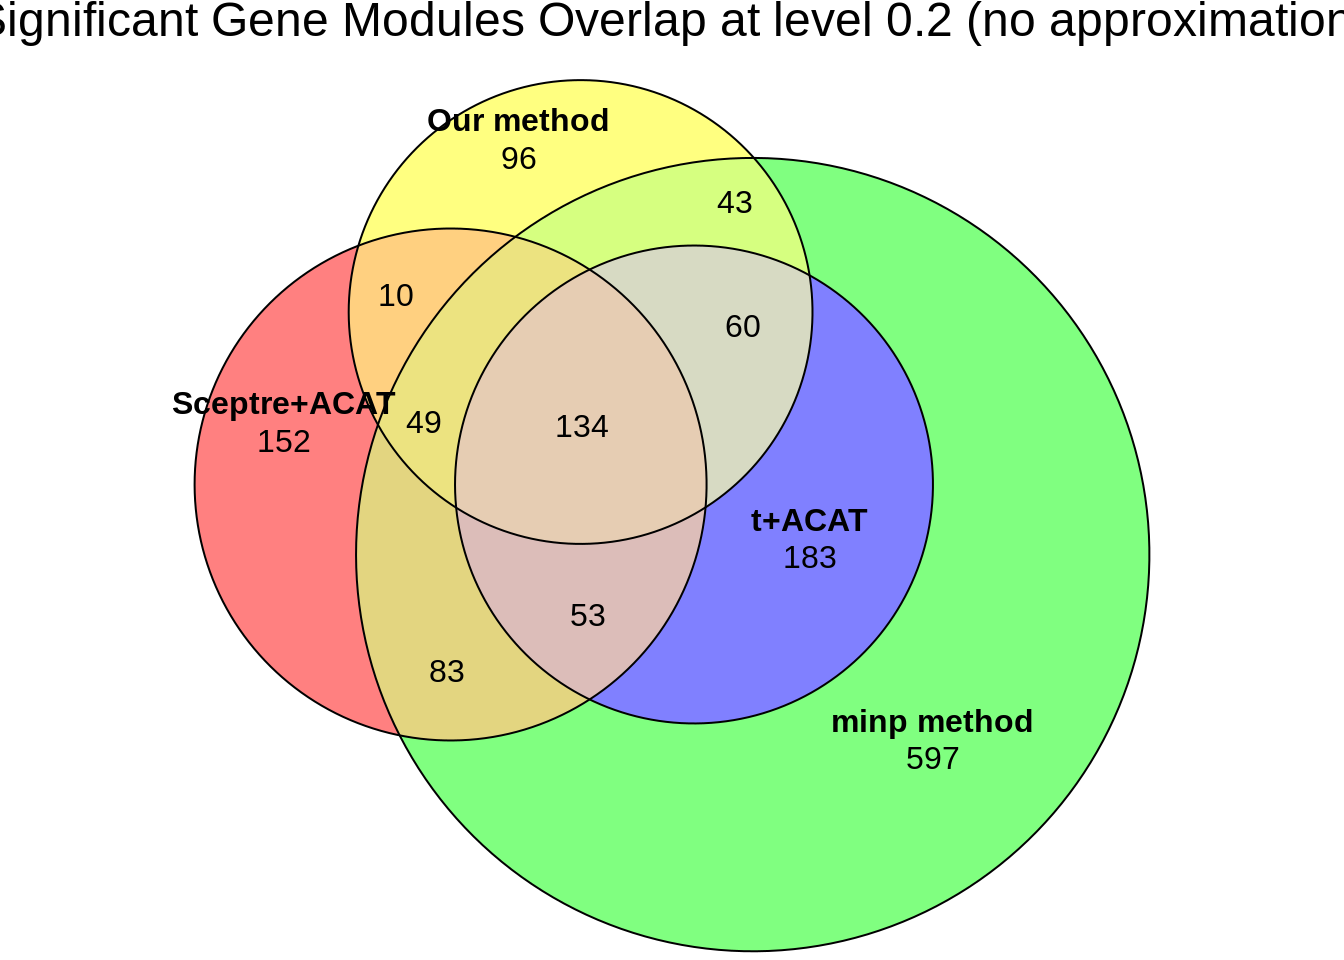
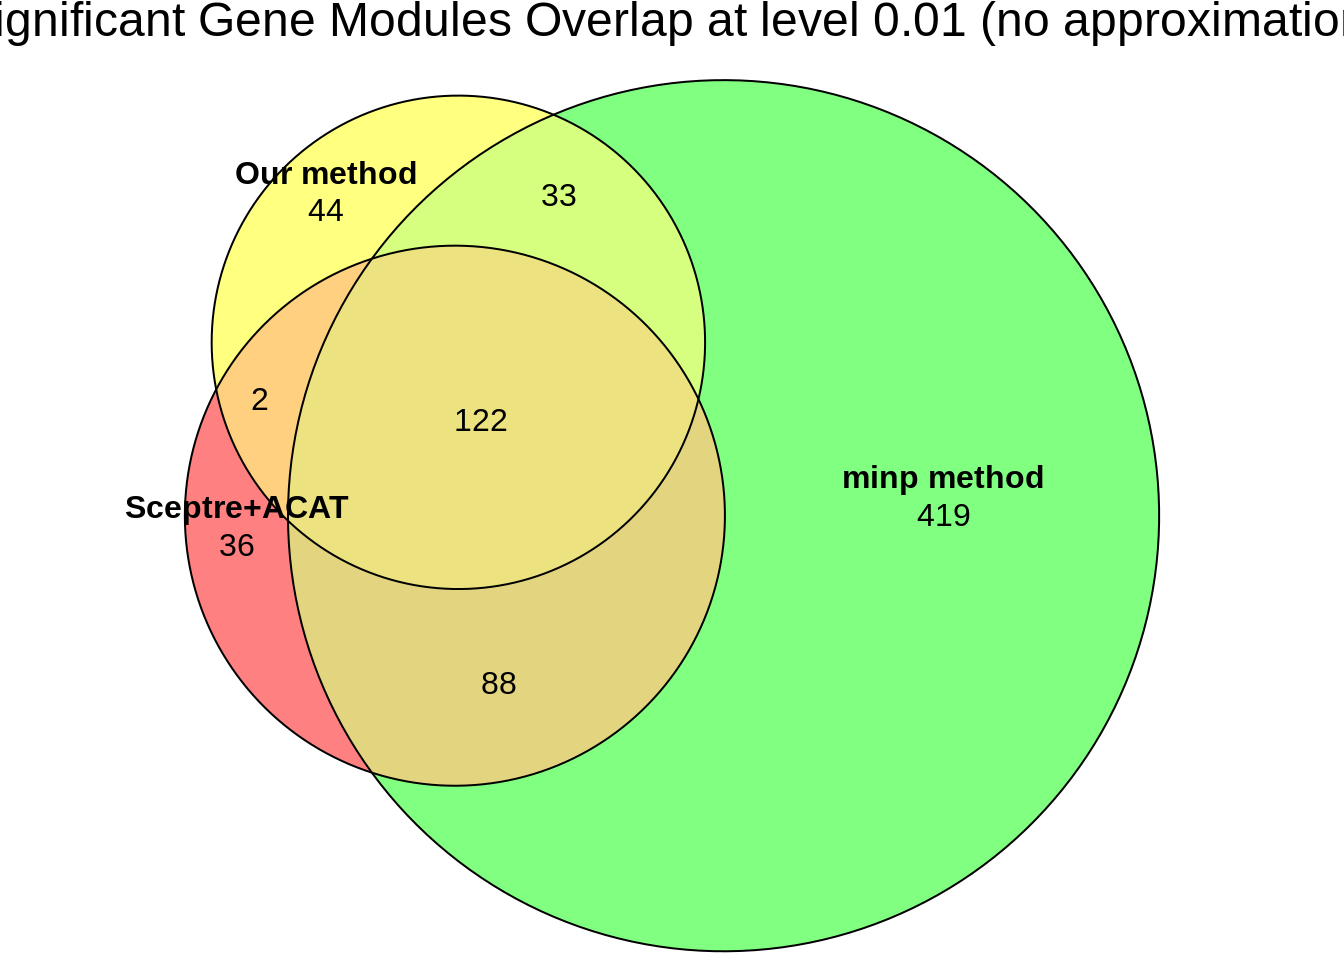
Build site.

diff --git a/docs/debug.html b/docs/debug.html
@@ -580,16 +580,16 @@ output/both_trans_author_threshold_0.05_2/results_run_calibration_check.rds
 <div class="panel panel-default">
 <div class="panel-heading">
 <p class="panel-title">
-<a data-toggle="collapse" data-parent="#workflowr-checks" href="#strongRepositoryversionstrongahrefhttpsgithubcomjliucxsceptretree7fe73c2e3ff9a6e6d8e1a681d3e568da5af7c930targetblank7fe73c2a"> <span class="glyphicon glyphicon-ok text-success" aria-hidden="true"></span> <strong>Repository version:</strong> <a href="https://github.com/jliucx/sceptre/tree/7fe73c2e3ff9a6e6d8e1a681d3e568da5af7c930" target="_blank">7fe73c2</a> </a>
+<a data-toggle="collapse" data-parent="#workflowr-checks" href="#strongRepositoryversionstrongahrefhttpsgithubcomjliucxsceptretree2b98c6c4cd346db6b8f6195f7fd3e850c4245c7etargetblank2b98c6ca"> <span class="glyphicon glyphicon-ok text-success" aria-hidden="true"></span> <strong>Repository version:</strong> <a href="https://github.com/jliucx/sceptre/tree/2b98c6c4cd346db6b8f6195f7fd3e850c4245c7e" target="_blank">2b98c6c</a> </a>
 </p>
 </div>
[2 lines of base64/hex data omitted]
 <div class="panel-body">
 <p>
 Great! You are using Git for version control. Tracking code development and connecting the code version to the results is critical for reproducibility.
 </p>
 <p>
-The results in this page were generated with repository version <a href="https://github.com/jliucx/sceptre/tree/7fe73c2e3ff9a6e6d8e1a681d3e568da5af7c930" target="_blank">7fe73c2</a>. See the <em>Past versions</em> tab to see a history of the changes made to the R Markdown and HTML files.
+The results in this page were generated with repository version <a href="https://github.com/jliucx/sceptre/tree/2b98c6c4cd346db6b8f6195f7fd3e850c4245c7e" target="_blank">2b98c6c</a>. See the <em>Past versions</em> tab to see a history of the changes made to the R Markdown and HTML files.
 </p>
 <p>
 Note that you need to be careful to ensure that all relevant files for the analysis have been committed to Git prior to generating the results (you can use <code>wflow_publish</code> or <code>wflow_git_commit</code>). workflowr only checks the R Markdown file, but you know if there are other scripts or data files that it depends on. Below is the status of the Git repository when the results were generated:
@@ -697,6 +697,40 @@ Message
 </tr>
 </thead>
 <tbody>
+<tr>
+<td>
+Rmd
+</td>
+<td>
+<a href="https://github.com/jliucx/sceptre/blob/2b98c6c4cd346db6b8f6195f7fd3e850c4245c7e/analysis/debug.Rmd" target="_blank">2b98c6c</a>
+</td>
+<td>
+jliucx
+</td>
+<td>
+2024-12-06
+</td>
+<td>
+add more comparison
+</td>
+</tr>
+<tr>
+<td>
+html
+</td>
+<td>
+<a href="https://rawcdn.githack.com/jliucx/sceptre/409b5c37058b52050f8fe9b714881454be19a54f/docs/debug.html" target="_blank">409b5c3</a>
+</td>
+<td>
+jliucx
+</td>
+<td>
+2024-12-06
+</td>
+<td>
+Build site.
+</td>
+</tr>
 <tr>
 <td>
 Rmd
@@ -3153,46 +3187,51 @@ jliucx
 </div>
 <div id="comparison-of-discoveries-of-four-methods" class="section level1">
 <h1>Comparison of discoveries of four methods</h1>
-<pre class="r"><code>significant_level &lt;- 0.2
+<pre class="r"><code>library(eulerr)
+
+# Define significant levels
+significant_levels &lt;- c(0.01, 0.05, 0.1, 0.2, 0.25)
 
 
-significant_ids_gene_wise_p &lt;- module_results_sceptre$identifier[module_results_sceptre$bh_pval &lt; significant_level]
-significant_ids_gene_wise_p_t &lt;- module_results_t$identifier[module_results_t$bh_pval &lt; significant_level]
-
-
-
-significant_pairs &lt;- minp_long %&gt;%
-  filter(bh_pval &lt; significant_level)
-
-significant_pairs &lt;- significant_pairs %&gt;%
-  mutate(identifier = paste(grna_id, module, sep = &quot;_&quot;))
-
-significant_identifiers_minp&lt;- significant_pairs$identifier
-
-significant_pairs_ours &lt;- our_method_long %&gt;%
-  filter(bh_pval &lt; significant_level)
-
-significant_pairs_ours &lt;- significant_pairs_ours %&gt;%
-  mutate(identifier = paste(grna_id, module, sep = &quot;_&quot;))
-
-significant_identifiers_ours &lt;- significant_pairs_ours$identifier
-
-library(eulerr)
-
-# Prepare the sets
-venn_data &lt;- list(
-  `Sceptre+ACAT` = significant_ids_gene_wise_p,
-  `t+ACAT` = significant_ids_gene_wise_p_t,
-  `minp method` = significant_identifiers_minp,
-  `Our method` = significant_identifiers_ours
-)
-
-# Generate the Euler diagram
-plot(euler(venn_data),
-     fills = list(fill = c(&quot;red&quot;, &quot;blue&quot;, &quot;green&quot;,&quot;yellow&quot;), alpha = 0.5),
-     edges = TRUE,
-     quantities = TRUE, # Add set sizes
-     main  = paste(&quot;Significant Gene Modules Overlap at level&quot;, significant_level, &quot;(no approximation)&quot;) )</code></pre>
+# Loop through significant levels and display plots
+for (significant_level in significant_levels) {
+  # Filter significant IDs for each method
+  significant_ids_gene_wise_p &lt;- module_results_sceptre$identifier[
+    module_results_sceptre$bh_pval &lt; significant_level]
+  significant_ids_gene_wise_p_t &lt;- module_results_t$identifier[
+    module_results_t$bh_pval &lt; significant_level]
+  
+  significant_pairs &lt;- minp_long %&gt;%
+    filter(bh_pval &lt; significant_level) %&gt;%
+    mutate(identifier = paste(grna_id, module, sep = &quot;_&quot;))
+  significant_identifiers_minp &lt;- significant_pairs$identifier
+  
+  significant_pairs_ours &lt;- our_method_long %&gt;%
+    filter(bh_pval &lt; significant_level) %&gt;%
+    mutate(identifier = paste(grna_id, module, sep = &quot;_&quot;))
+  significant_identifiers_ours &lt;- significant_pairs_ours$identifier
+  
+  # Prepare the sets
+  venn_data &lt;- list(
+    `Sceptre+ACAT` = significant_ids_gene_wise_p,
+    `t+ACAT` = significant_ids_gene_wise_p_t,
+    `minp method` = significant_identifiers_minp,
+    `Our method` = significant_identifiers_ours
+  )
+  
+  # Generate the Euler diagram and display it
+  euler_plot &lt;- plot(euler(venn_data),
+                     fills = list(fill = c(&quot;red&quot;, &quot;blue&quot;, &quot;green&quot;, &quot;yellow&quot;), alpha = 0.5),
+                     edges = TRUE, quantities = TRUE,
+                     main = paste(&quot;Significant Gene Modules Overlap at level&quot;, significant_level, &quot;(no approximation)&quot;)
+  )
+  
+  print(euler_plot)  # Display the plot in the R plotting window
+}</code></pre>
+<pre><code>Warning in colSums(id &amp; !empty) == 0 | merged_sets: longer object length is not
+a multiple of shorter object length
+Warning in colSums(id &amp; !empty) == 0 | merged_sets: longer object length is not
+a multiple of shorter object length</code></pre>
 <p><img src="figure/debug.Rmd/unnamed-chunk-34-1.png" width="672" style="display: block; margin: auto;" /></p>
 <p>
 <button type="button" class="btn btn-default btn-xs btn-workflowr btn-workflowr-fig" data-toggle="collapse" data-target="#fig-unnamed-chunk-34-1">
@@ -3231,9 +3270,9 @@ jliucx
 </table>
 </div>
 </div>
-</div>
-<div id="calibration-check" class="section level1">
-<h1>Calibration check</h1>
+<pre><code>Warning in colSums(id &amp; !empty) == 0 | merged_sets: longer object length is not
+a multiple of shorter object length</code></pre>
+<p><img src="figure/debug.Rmd/unnamed-chunk-34-2.png" width="672" style="display: block; margin: auto;" /><img src="figure/debug.Rmd/unnamed-chunk-34-3.png" width="672" style="display: block; margin: auto;" /><img src="figure/debug.Rmd/unnamed-chunk-34-4.png" width="672" style="display: block; margin: auto;" /><img src="figure/debug.Rmd/unnamed-chunk-34-5.png" width="672" style="display: block; margin: auto;" /> # Calibration check</p>
 <pre class="r"><code>gg_qqplot &lt;- function(ps, ci = 0.95, title = &quot;QQ Plot&quot;) {
   n &lt;- length(ps)
   df &lt;- data.frame(
@@ -3271,12 +3310,160 @@ ntc_sceptre &lt;- module_results_sceptre %&gt;%
   select(grna_id, acat_pval)</code></pre>
 <pre class="r"><code>gg_qqplot(as.vector(ntc_our$p_value), title=&quot;Negative control our method&quot;)</code></pre>
 <p><img src="figure/debug.Rmd/unnamed-chunk-36-1.png" width="672" style="display: block; margin: auto;" /></p>
+<p>
+<button type="button" class="btn btn-default btn-xs btn-workflowr btn-workflowr-fig" data-toggle="collapse" data-target="#fig-unnamed-chunk-36-1">
+Past versions of unnamed-chunk-36-1.png
+</button>
+</p>
+<div id="fig-unnamed-chunk-36-1" class="collapse">
+<div class="table-responsive">
+<table class="table table-condensed table-hover">
+<thead>
+<tr>
+<th>
+Version
+</th>
+<th>
+Author
+</th>
+<th>
+Date
+</th>
+</tr>
+</thead>
+<tbody>
+<tr>
+<td>
+<a href="https://github.com/jliucx/sceptre/blob/409b5c37058b52050f8fe9b714881454be19a54f/docs/figure/debug.Rmd/unnamed-chunk-36-1.png" target="_blank">409b5c3</a>
+</td>
+<td>
+jliucx
+</td>
+<td>
+2024-12-06
+</td>
+</tr>
+</tbody>
+</table>
+</div>
+</div>
 <pre class="r"><code>gg_qqplot(as.vector(ntc_minp$p_value), title=&quot;Negative control minp&quot;)</code></pre>
 <p><img src="figure/debug.Rmd/unnamed-chunk-36-2.png" width="672" style="display: block; margin: auto;" /></p>
+<p>
+<button type="button" class="btn btn-default btn-xs btn-workflowr btn-workflowr-fig" data-toggle="collapse" data-target="#fig-unnamed-chunk-36-2">
+Past versions of unnamed-chunk-36-2.png
+</button>
+</p>
+<div id="fig-unnamed-chunk-36-2" class="collapse">
+<div class="table-responsive">
+<table class="table table-condensed table-hover">
+<thead>
+<tr>
+<th>
+Version
+</th>
+<th>
+Author
+</th>
+<th>
+Date
+</th>
+</tr>
+</thead>
+<tbody>
+<tr>
+<td>
+<a href="https://github.com/jliucx/sceptre/blob/409b5c37058b52050f8fe9b714881454be19a54f/docs/figure/debug.Rmd/unnamed-chunk-36-2.png" target="_blank">409b5c3</a>
+</td>
+<td>
+jliucx
+</td>
+<td>
+2024-12-06
+</td>
+</tr>
+</tbody>
+</table>
+</div>
+</div>
 <pre class="r"><code>gg_qqplot(as.vector(ntc_t$acat_pval), title=&quot;Negative control t-ACAT&quot;)</code></pre>
 <p><img src="figure/debug.Rmd/unnamed-chunk-36-3.png" width="672" style="display: block; margin: auto;" /></p>
+<p>
+<button type="button" class="btn btn-default btn-xs btn-workflowr btn-workflowr-fig" data-toggle="collapse" data-target="#fig-unnamed-chunk-36-3">
+Past versions of unnamed-chunk-36-3.png
+</button>
+</p>
+<div id="fig-unnamed-chunk-36-3" class="collapse">
+<div class="table-responsive">
+<table class="table table-condensed table-hover">
+<thead>
+<tr>
+<th>
+Version
+</th>
+<th>
+Author
+</th>
+<th>
+Date
+</th>
+</tr>
+</thead>
+<tbody>
+<tr>
+<td>
+<a href="https://github.com/jliucx/sceptre/blob/409b5c37058b52050f8fe9b714881454be19a54f/docs/figure/debug.Rmd/unnamed-chunk-36-3.png" target="_blank">409b5c3</a>
+</td>
+<td>
+jliucx
+</td>
+<td>
+2024-12-06
+</td>
+</tr>
+</tbody>
+</table>
+</div>
+</div>
 <pre class="r"><code>gg_qqplot(as.vector(ntc_sceptre$acat_pval), title=&quot;Negative control sceptre-ACAT&quot;)</code></pre>
 <p><img src="figure/debug.Rmd/unnamed-chunk-36-4.png" width="672" style="display: block; margin: auto;" /></p>
+<p>
+<button type="button" class="btn btn-default btn-xs btn-workflowr btn-workflowr-fig" data-toggle="collapse" data-target="#fig-unnamed-chunk-36-4">
+Past versions of unnamed-chunk-36-4.png
+</button>
+</p>
+<div id="fig-unnamed-chunk-36-4" class="collapse">
+<div class="table-responsive">
+<table class="table table-condensed table-hover">
+<thead>
+<tr>
+<th>
+Version
+</th>
+<th>
+Author
+</th>
+<th>
+Date
+</th>
+</tr>
+</thead>
+<tbody>
+<tr>
+<td>
+<a href="https://github.com/jliucx/sceptre/blob/409b5c37058b52050f8fe9b714881454be19a54f/docs/figure/debug.Rmd/unnamed-chunk-36-4.png" target="_blank">409b5c3</a>
+</td>
+<td>
+jliucx
+</td>
+<td>
+2024-12-06
+</td>
+</tr>
+</tbody>
+</table>
+</div>
+</div>
 <br>
 <p>
 <button type="button" class="btn btn-default btn-workflowr btn-workflowr-sessioninfo" data-toggle="collapse" data-target="#workflowr-sessioninfo" style="display: block;">
